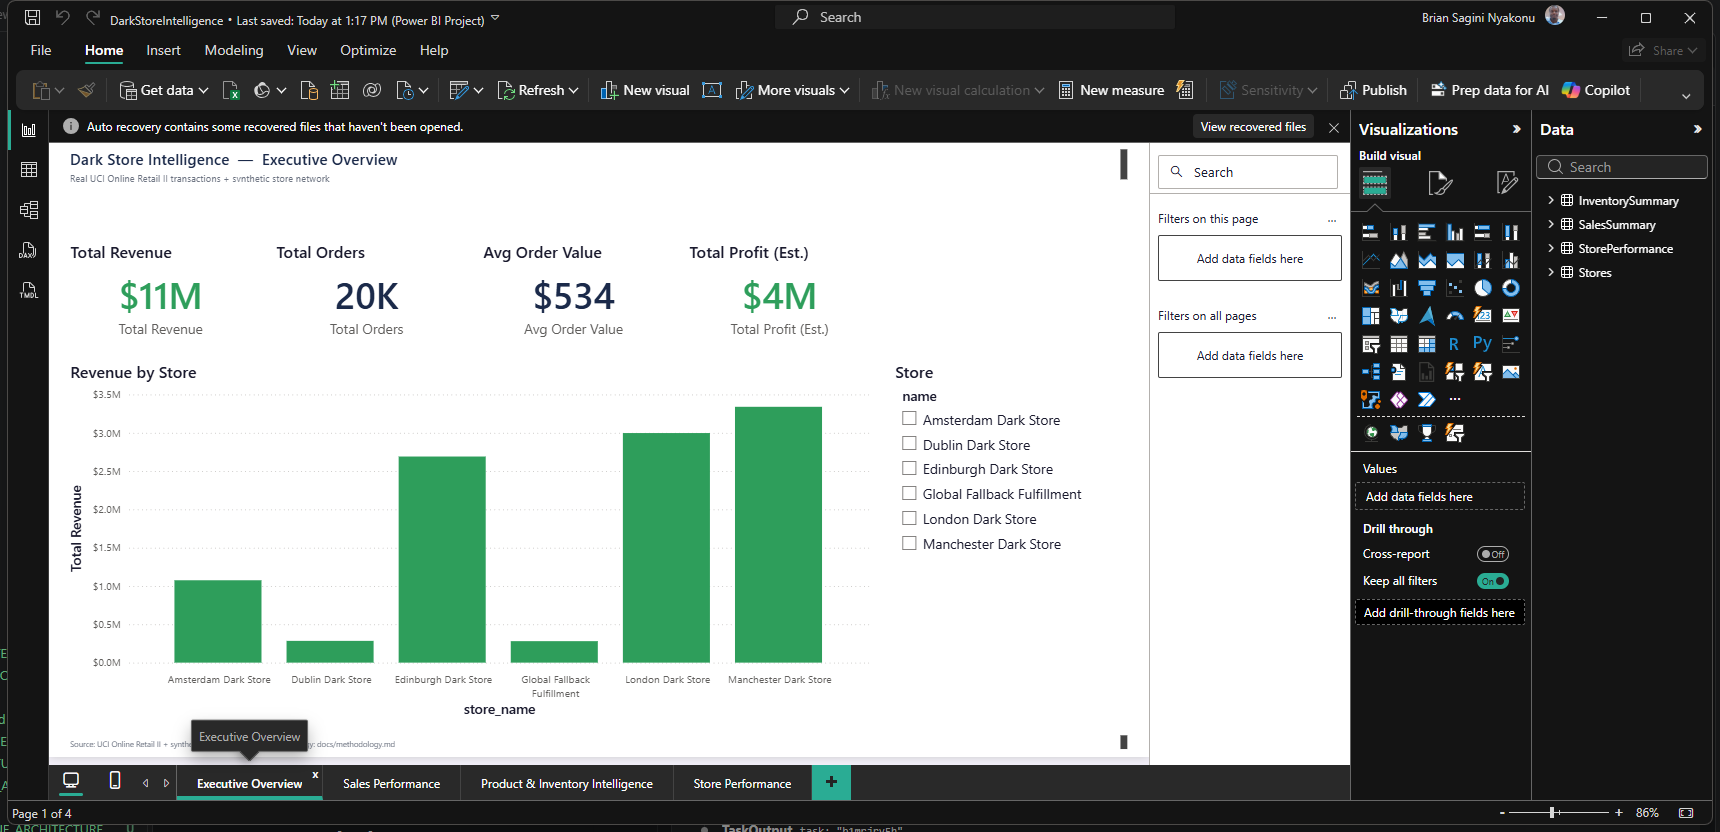
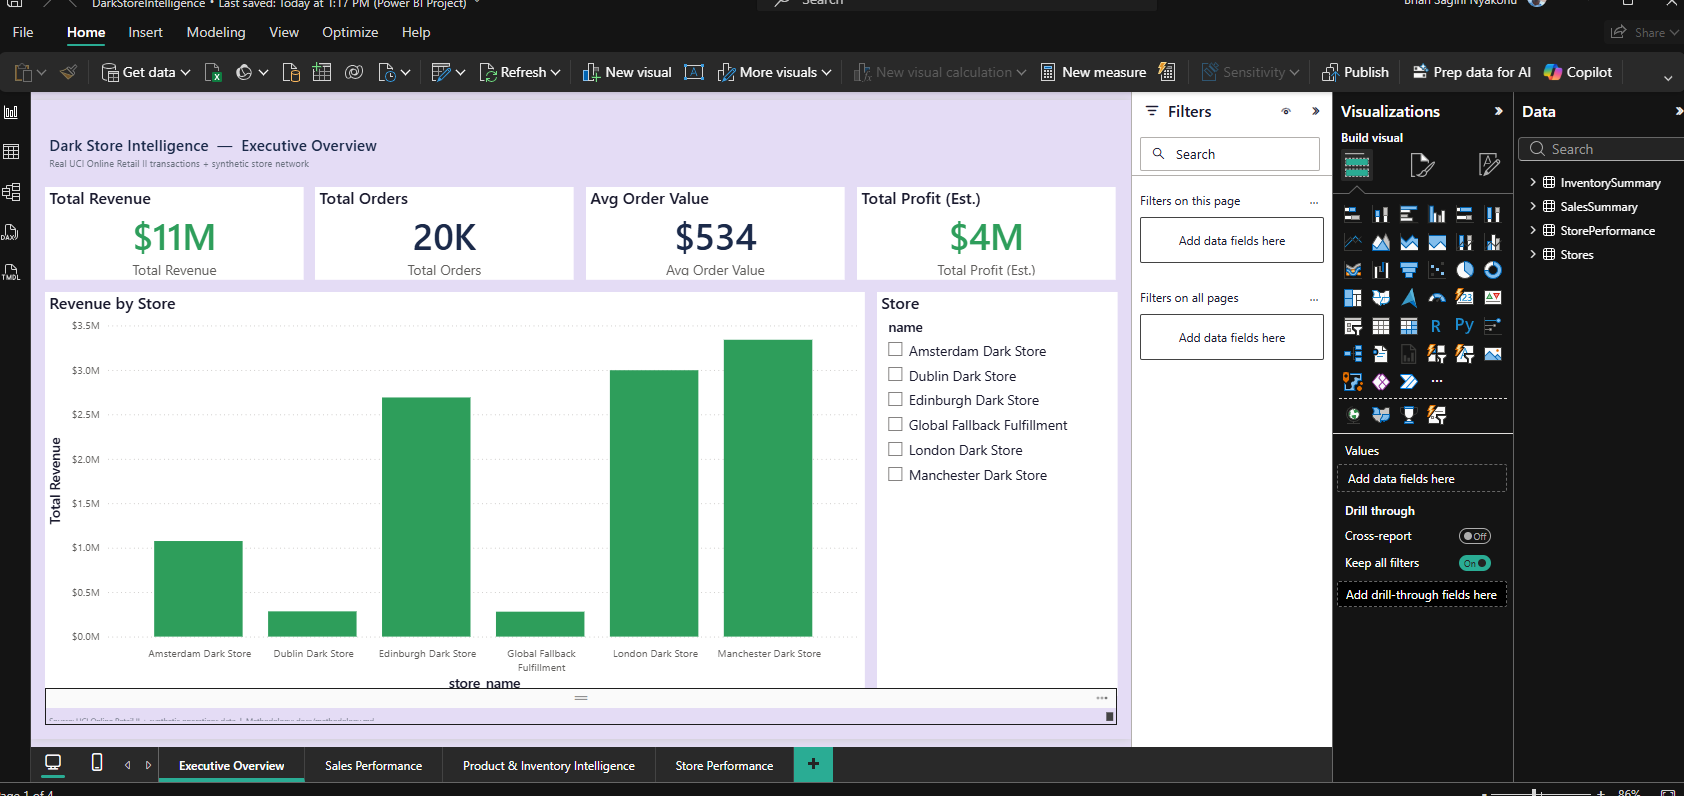
Tighten layout, fix canvas background, verify all pages in Desktop
Redid every page onto a dense 16px-margin/14px-gutter grid; the two Sales
Performance charts in particular were only 1000px wide on a 1240px
canvas, leaving a large dead strip -- now full width. Fixed the canvas
background the same way as Climate (visualStyles.page.*.background, not
outspace) and rebuilt report.json from Climate's proven-correct structure
(older schema + a missing base-theme resourcePackage entry, both silently
tolerated until the new theme feature tripped a hard load error). All 4
pages reopened and confirmed rendering correctly.

diff --git a/docs/powerbi_guide.md b/docs/powerbi_guide.md
@@ -33,6 +33,18 @@ file from opening, but corrupted the identical field and caused a hard "issues t
 resolved" load error on the Hiring and Fraud projects (see their guides). Fixed to match Climate's
 already-correct shape for consistency, even though this project happened to tolerate it.
 
+**Round 5 (this one)**: tightened every page's layout to a dense 16px-margin/14px-gutter grid
+(the two Sales Performance charts in particular were only 1000px wide on a 1240px canvas, leaving
+a large dead strip on the right — now full width), and fixed the canvas background — the
+`visualStyles.*.*.outspace` property used previously turned out not to be what actually colors the
+page canvas; confirmed via Desktop's own theme customizer that the real property is
+`visualStyles.page.*.background`, now set to `#E4DCF5`. Also rebuilt `report.json` from Climate's
+proven-correct structure (older schema version, and a missing `SharedResources` resourcePackage
+entry for the base theme, were both silently tolerated here but caused a hard load error once the
+newer `page` background theme feature was added — same root cause as the Hiring/Fraud
+`reportVersionAtImport` fix above, just not tripped until this round). All 4 pages reopened and
+confirmed rendering correctly.
+
 ## Data connectivity
 
 Get Data → Database → PostgreSQL database → `localhost:5433` / `analytics` / `analytics_ro`
@@ -61,19 +73,25 @@ Avg Days of Supply = AVERAGE(powerbi_inventory_summary[days_of_supply])
 Segoe UI. Accents: primary navy `#1B2A4A`, secondary purple `#6C4AB6`, teal `#2E8B99`, positive
 green `#2E9E5B`, warning orange `#E67E22`, critical red `#C0392B`.
 
-**Background**: a pale purple-tinted canvas `#F3F0FA` (not neutral gray) behind white visual
-containers — same reasoning as Climate's (see that project's guide for the 3 options weighed):
-visibly branded without competing with in-chart accent colors. Set via `DarkStoreTheme.json`'s
-`visualStyles.*.*.outspace`.
+**Background**: a pale purple-tinted canvas `#E4DCF5` (not neutral gray) behind white visual
+containers — visibly branded without competing with in-chart accent colors. Set via
+`DarkStoreTheme.json`'s `visualStyles.page.*.background` — **not** `outspace`, which doesn't
+control the canvas (see Status above for how that was confirmed).
 
-**Per-visual accent colors** (`dataPoint.defaultColor`, single-measure charts only): Revenue by
-Store, Revenue Over Time, Revenue by Region, Profit (Est.) by Store, Revenue by Month, and the
-Total Revenue/Total Profit cards → positive green (revenue/profit is good). Avg Turnover Ratio by
-Store → secondary purple (neutral operational metric). Stockout Days by Store → warning orange (a
-problem indicator). Everything else is theme-driven.
+**Per-visual accent colors**: charts use `dataPoint.defaultColor` (single-measure charts only);
+cards use `objects.labels[0].properties.color` (see Status above for why `dataPoint` doesn't work
+on cards). Revenue by Store, Revenue Over Time, Revenue by Region, Profit (Est.) by Store, Revenue
+by Month, and the Total Revenue/Total Profit cards → positive green (revenue/profit is good). Avg
+Turnover Ratio by Store → secondary purple (neutral operational metric). Stockout Days by Store →
+warning orange (a problem indicator). Everything else is theme-driven.
 
 **Header/footer**: every page gets a themed header (report — page name + data-source line) and
 footer (source + methodology pointer) as real `textbox` visuals.
+
+**Layout**: a standard dense grid — 16px canvas margin, 14px gutter between visuals, visuals
+resized to fill their row/column exactly. Before this pass, pages covered 69–81% of the canvas by
+visual area (Sales Performance was the sparsest, at 69%, from two charts stopping 240px short of
+the right edge); after, 87–88%.
 
 ## Visual inventory
 
@@ -84,25 +102,25 @@ Every visual below is a real object in `powerbi/DarkStoreIntelligence.Report/def
 - Total Orders — Card — `SalesSummary[Total Orders]`
 - Avg Order Value — Card — `SalesSummary[Avg Order Value]`
 - Total Profit (Est.) — Card — `StorePerformance[Total Profit (Est.)]`
-- Revenue by Store — Clustered column chart — Category `SalesSummary[store_name]`, Y `SalesSummary[revenue]`
+- Revenue by Store — Clustered column chart — Category `SalesSummary[store_name]`, Y `SalesSummary[Total Revenue]`
 - Store — Slicer — `Stores[name]`
 
 **Page 2 — Sales Performance**
-- Revenue Over Time — Line chart — Category `SalesSummary[metric_date]`, Y `SalesSummary[revenue]`
-- Revenue by Region — Clustered column chart — Category `SalesSummary[region]`, Y `SalesSummary[revenue]`
+- Revenue Over Time — Line chart — Category `SalesSummary[metric_date]`, Y `SalesSummary[Total Revenue]`
+- Revenue by Region — Clustered column chart — Category `SalesSummary[region]`, Y `SalesSummary[Total Revenue]`
 
 **Page 3 — Product & Inventory Intelligence**
-- Avg Turnover Ratio by Store — Clustered column chart — Category `InventorySummary[store_name]`, Y `InventorySummary[turnover_ratio]`
-- Stockout Days by Store — Clustered column chart — Category `InventorySummary[store_name]`, Y `InventorySummary[stockout_days]`
+- Avg Turnover Ratio by Store — Clustered column chart — Category `InventorySummary[store_name]`, Y `InventorySummary[Avg Turnover Ratio]`
+- Stockout Days by Store — Clustered column chart — Category `InventorySummary[store_name]`, Y `InventorySummary[Total Stockout Days]`
 - Inventory Detail — Table — `InventorySummary[store_name]`, `[stock_code]`, `[description]`, `[days_of_supply]`, `[turnover_ratio]`
 
 **Page 4 — Store Performance**
-- Profit (Est.) by Store — Clustered column chart — Category `StorePerformance[store_name]`, Y `StorePerformance[profit_estimate]`
-- Revenue by Month — Line chart — Category `StorePerformance[month]`, Y `StorePerformance[revenue]`
-- Store Locations (Sized by Revenue) — Map (bubble) — Category `Stores[name]`, Latitude `Stores[lat]`, Longitude `Stores[lon]`, Size `SalesSummary[Total Revenue]`
+- Profit (Est.) by Store — Clustered column chart — Category `StorePerformance[store_name]`, Y `StorePerformance[Total Profit (Est.)]`
+- Revenue by Month — Line chart — Category `StorePerformance[month]`, Y `StorePerformance[revenue]` (Sum aggregation — no matching measure exists for this table's own `revenue` column)
+- Store Locations — Table — `Stores[name]`, `[region]`, `[country]`, `[lat]`, `[lon]` (a table, not a map — see Climate's guide for the map-visual tenant restriction)
 - Store Profitability Detail — Table — `StorePerformance[store_name]`, `[month]`, `[revenue]`, `[cogs_estimate]`, `[opex_estimate]`, `[profit_estimate]`, `[roi_pct]`
 
-**Total: 15 visuals across 4 pages.**
+**Total: 23 visuals across 4 pages** (15 data visuals + a header and footer text box per page).
 
 ## Power BI Service publication: BLOCKED
 
